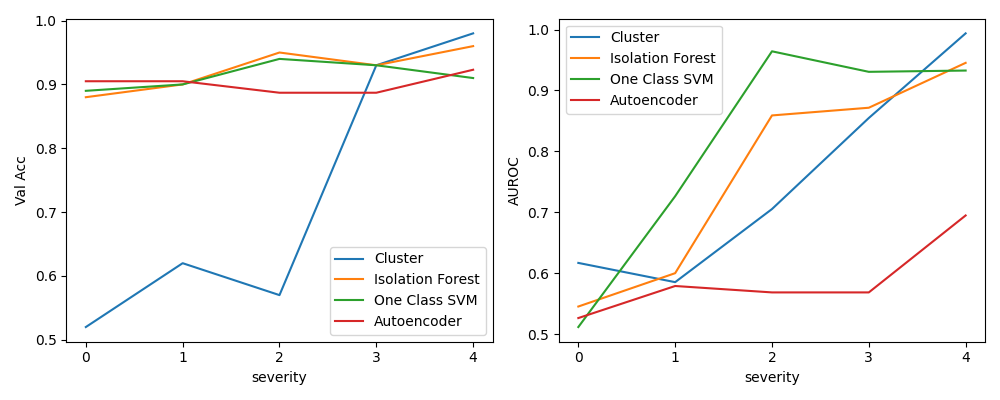
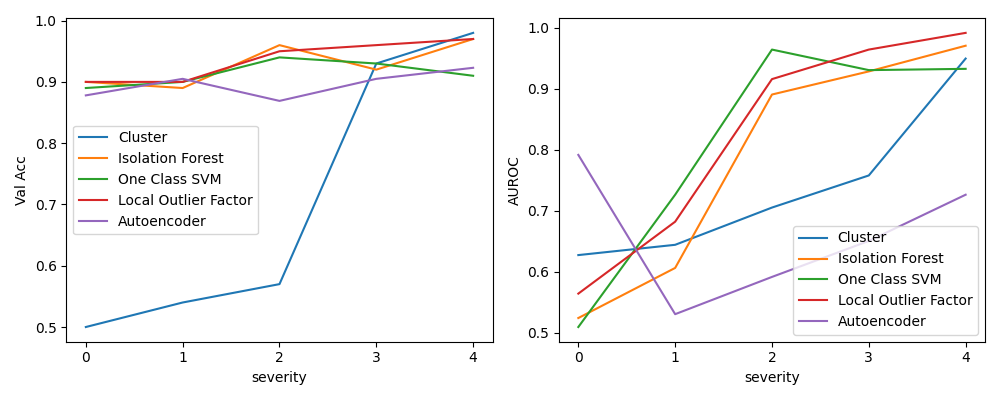
tested LOF

diff --git a/anomaly_detector/AnomalyDetectorLocalOutlierFactor.py b/anomaly_detector/AnomalyDetectorLocalOutlierFactor.py
@@ -1,0 +1,32 @@
+import numpy as np
+from typing import List
+
+from sklearn.utils import resample
+from sklearn.neighbors import LocalOutlierFactor
+
+from anomaly_detector.AnomalyDetector import AnomalyDetector
+
+class AnomalyDetectorLocalOutlierFactor(AnomalyDetector):
+
+    def get_name(self) -> str:
+        return "Local Outlier Factor"
+
+    def train_eval(self) -> List[float]:
+        """Train and evaluate the anomaly detector."""
+        """Return accuracy and AUROC."""
+
+        np.random.shuffle(self.data)
+        lof = LocalOutlierFactor(n_neighbors=50, novelty=True, contamination=0.05)
+        lof.fit(self.data)
+
+        # Predict: -1 for anomalies (bad time series), 1 for normal data (good time series)
+        predictions = lof.predict(self.val_data)
+
+        # Convert predictions: -1 (anomaly) -> 1 (bad), 1 (normal) -> 0 (good)
+        prediction_labels = np.where(predictions == -1, 1, 0)        
+        anomaly_scores = lof.decision_function(self.val_data)
+
+        accuracy = self.get_accuracy(prediction_labels, self.val_labels)
+        auroc = self.get_auroc(anomaly_scores, self.val_labels)
+
+        return accuracy, auroc

diff --git a/TestAnomalyDetectors.py b/TestAnomalyDetectors.py
@@ -4,7 +4,8 @@ import numpy as np
 from anomaly_detector.AnomalyDetectorAutoencoder import AnomalyDetectorAutoencoder
 from anomaly_detector.AnomalyDetectorCluster import AnomalyDetectorCluster
 from anomaly_detector.AnomalyDetectorClusterIsoForest import AnomalyDetectorIsoForest
-from anomaly_detector.AnomalyDetectorClusterOneClassSVM import AnomalyDetectorOneClassSVM
+from anomaly_detector.AnomalyDetectorLocalOutlierFactor import AnomalyDetectorLocalOutlierFactor
+from anomaly_detector.AnomalyDetectorOneClassSVM import AnomalyDetectorOneClassSVM
 
 K = 1000
 N = 500
@@ -14,6 +15,7 @@ ad = []
 ad.append(AnomalyDetectorCluster())
 ad.append(AnomalyDetectorIsoForest())
 ad.append(AnomalyDetectorOneClassSVM())
+ad.append(AnomalyDetectorLocalOutlierFactor())
 ad.append(AnomalyDetectorAutoencoder())
 
 n_training_sets =7

diff --git a/anomaly_detector/AnomalyDetectorOneClassSVM.py b/anomaly_detector/AnomalyDetectorOneClassSVM.py
@@ -19,8 +19,6 @@ class AnomalyDetectorOneClassSVM(AnomalyDetector):
         """Return accuracy and AUROC."""
 
         np.random.shuffle(self.data)
-        # Fit Isolation Forest
-        # Fit One-Class SVM
         svm = OneClassSVM(nu=0.05, kernel="rbf")  # nu is the proportion of outliers
         svm.fit(self.data)
 
